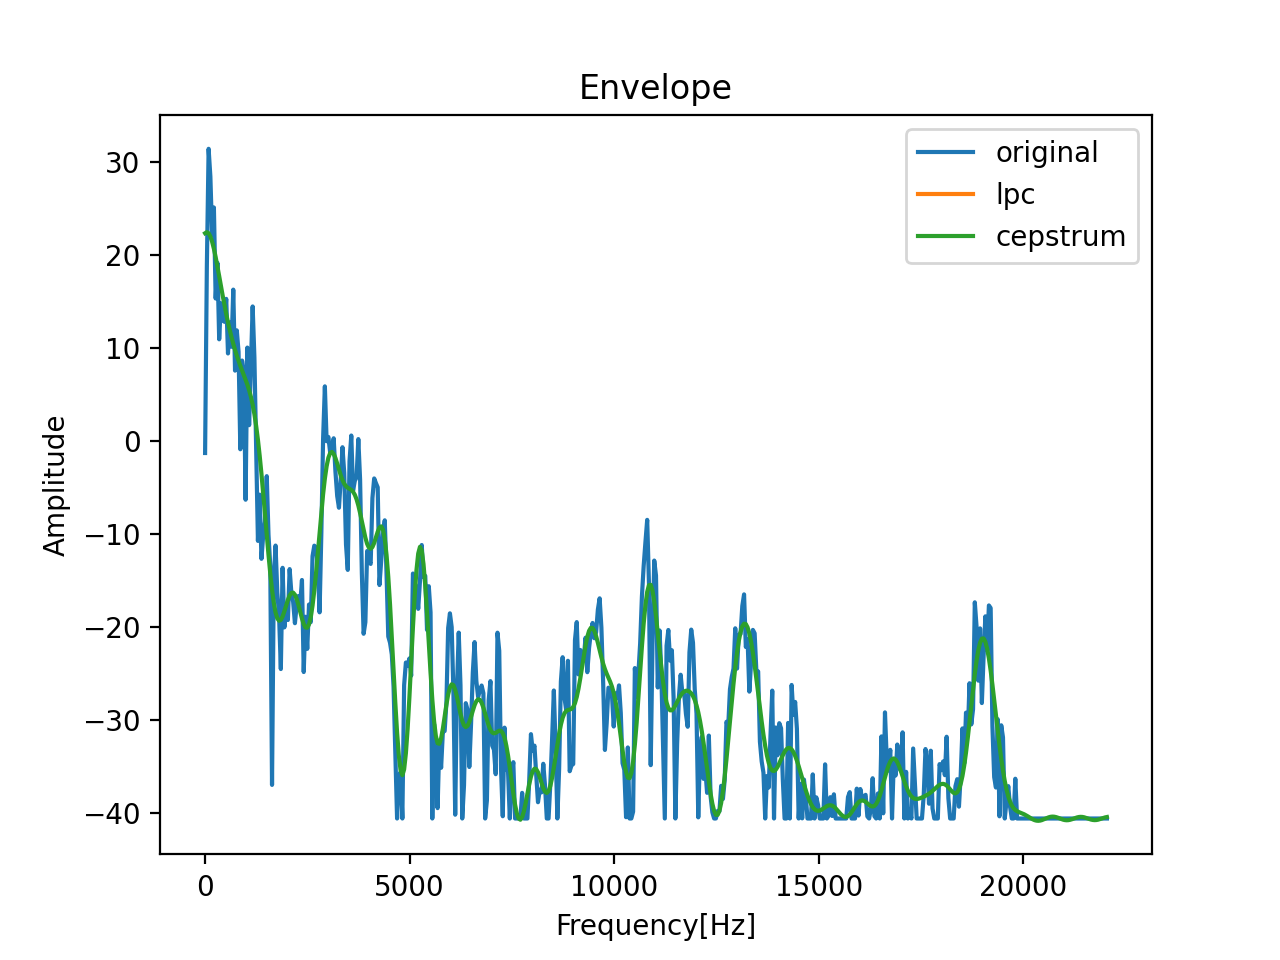
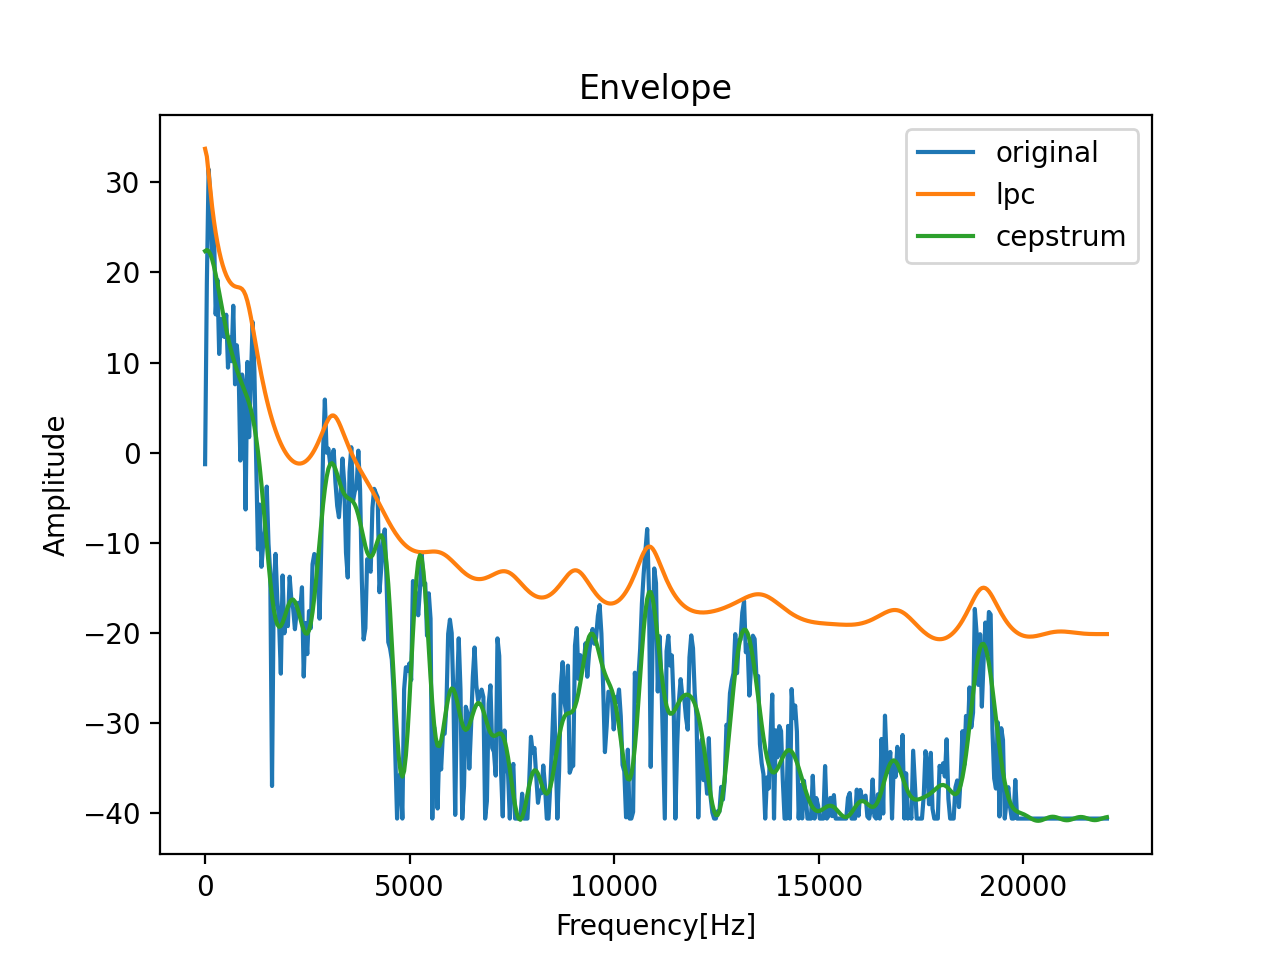
levinson修正

diff --git a/ex4/t_hayakawa/main.py b/ex4/t_hayakawa/main.py
@@ -3,6 +3,7 @@ import librosa
 import librosa.display
 from matplotlib import pyplot as plt
 import argparse
+from scipy.linalg import solve_toeplitz
 
 import pyworld as pw
 
@@ -35,40 +36,40 @@ def stft(data, window=1024, step=512):
     return spec
 
 
-def get_cut_signal(input, win_size, shift_size):
+def get_cut_signal(signal, win_size, shift_size):
     """cut input signal
 
     Args:
-        input (ndarray): input signal
+        signal (ndarray): input signal
         win_size (int): window size
         shift_size (int): shift length
 
     Returns:
         ndarray: framed signal
     """
-    length = input.shape[0]
+    length = signal.shape[0]
     frame_num = (length-win_size)//shift_size+1
-    frames = np.zeros((frame_num, win_size)+input.shape[1:])
+    frames = np.zeros((frame_num, win_size)+signal.shape[1:])
 
     for i in range(frame_num):
         # start position to cut signal
         start = shift_size*i
-        frames[i] = input[start:start+win_size]
+        frames[i] = signal[start:start+win_size]
 
     return frames
 
 
-def auto_correlation(input, win_size):
+def auto_correlation(signal, win_size):
     """auto correlation
 
     Args:
-        input (ndarray): input signal
+        signal (ndarray): input signal
         win_size (int): window size
 
     Returns:
         ndarray: auto correlation signal
     """
-    frames = get_cut_signal(input, win_size, win_size//2)
+    frames = get_cut_signal(signal, win_size, win_size//2)
     spec = np.fft.rfft(frames, win_size * 2)
     power = spec * spec.conj()
     ac = np.fft.irfft(power)
@@ -79,18 +80,18 @@ def auto_correlation(input, win_size):
     return ac
 
 
-def detect_peak(input, neighbor):
+def detect_peak(signal, neighbor):
     """detect peak from input signal
 
     Args:
-        input (ndarray): input signal
+        signal (ndarray): input signal
         neighbor (int): detect range
 
     Returns:
         ndarray: peaks list
     """
-    frames = get_cut_signal(input, 2*neighbor+1, 1)
-    candidate = np.copy(input[neighbor:-neighbor])
+    frames = get_cut_signal(signal, 2*neighbor+1, 1)
+    candidate = np.copy(signal[neighbor:-neighbor])
 
     candidate[np.argmax(frames, axis=1) != neighbor] = -np.inf
     # calculate maximum of peak
@@ -158,7 +159,7 @@ def levinson(r):
     sigma = r[0]
     for p in range(1, a.shape[0]):
         w = np.sum(a[:p]*r[p:0:-1], axis=0)
-        k = w/sigma
+        k = w/(sigma+1e-8)
         sigma = sigma-k*w
 
         a[1:p+1] = a[1:p+1]-k*a[p-1::-1]
@@ -175,6 +176,7 @@ def lpc(signal, win_size, deg):
         signal (ndarray): input signal
         win_size (int): window size
         deg (int): degree
+        method(str): solve Yule-walker equation Method
 
     Returns:
         ndarray: envelope
@@ -182,7 +184,7 @@ def lpc(signal, win_size, deg):
     ac = auto_correlation(signal, win_size)
     r = ac[:deg]
 
-    a,e=levinson(r)
+    a, e = levinson(r)
 
     env = e/np.fft.rfft(a, win_size, axis=0)
     env = librosa.amplitude_to_db(np.abs(env))
@@ -194,7 +196,10 @@ def main():
     parser = argparse.ArgumentParser()
     parser.add_argument("filename", type=str, help="Wave file name")
     parser.add_argument(
-        "--f0", choices=["ac", "ceps"], default="ac", help="method for calculate f0")
+        "--f0",
+        choices=["ac", "ceps"],
+        default="ac",
+        help="method for calculate f0")
     args = parser.parse_args()
 
     # load sound file
@@ -213,8 +218,8 @@ def main():
     # _f0,_time=pw.dio(data,sr)
     # f0=pw.stonemask(data,_f0,_time,sr)
 
-    librosa.display.specshow(spec_db, sr=sr, hop_length=win_size //
-                             2, x_axis="time", y_axis="linear", cmap="rainbow")
+    librosa.display.specshow(spec_db, sr=sr, hop_length=win_size // 2,
+                             x_axis="time", y_axis="linear", cmap="rainbow")
     t = np.linspace(0, (data.size-win_size)/sr, f0.size)
     plt.plot(t, f0, color="black")
     plt.ylim(0, 1000)
